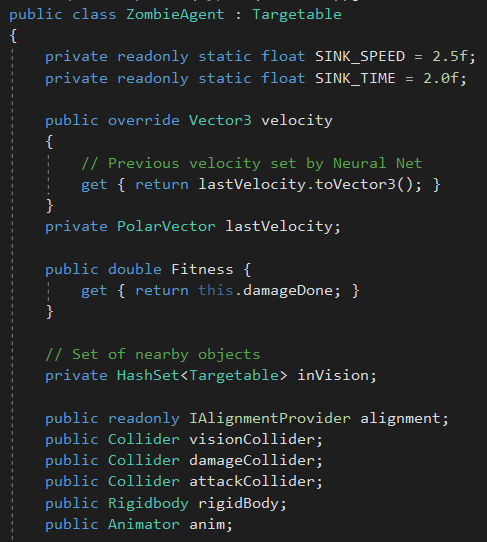
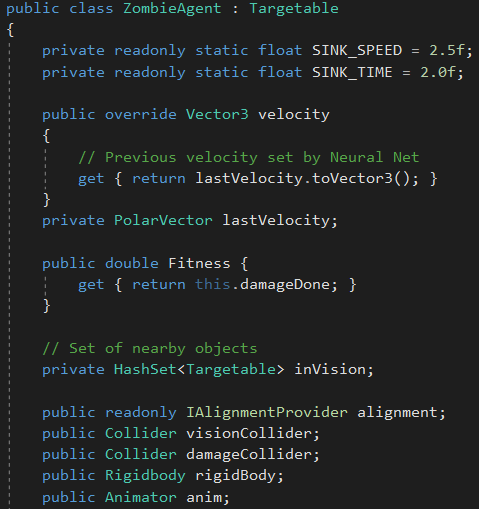
work on ZombieAgent tutorial section

diff --git a/paper.tex b/paper.tex
@@ -184,12 +184,22 @@ The Spawn method, as seen in Figure 12, is called every SPAWN\_DELAY interval PO
 
 \imfig{GenomeManagerSpawn}{Spawning machinery of the GenomeManager class}
 
-
-
 \subsubsection{Redzen}
+
 Redzen is a general-purpose utilities library for C\# that contains the fast random function that we use. However, it should be noted that the library as it may be found online at the time of writing does not compile with the older C\# compiler that Unity uses. Thus, we had to manually delete most of the library files and remove underscore digit separators from some numeric constants, as they are a C\# 7 feature. You can find our compatible library at \path{They-Are-Very-Smart/TD/TowerDefense/Assets/Scripts/Util/Redzen}
 
-\subsubsection{}
+\subsubsection{ZombieAgent}
+
+ZombieAgent is a GameObject which determines Zombunny behavior and stats from a genome and keeps track of fitness for each individual Zombunny. To do so, ZombieAgent pulls all the stat-determining values from the genome and applies them upon instantiation, i.e. setting health, damage, and speed as determined by the genome, as well as handling tick-to-tick operations during a Zombunny's lifetime. These tick-to-tick operations include choosing the next movement vector based on the location of nearby GameObjects and agent's current status. 
+
+\imfig{ZombieAgent1}{ZombieAgent class parameters}
+
+In Figure 13, observe that the ZombieAgent class inherits from the Targetable class. Targetable is the parent class for every GameObject in the Action Game Framework, which can be automatically fired upon by ranged weapons, i.e. targeted. This also allows any existing defenses from the default game or any other targeting GameObject from the Action Game Framework to work without extra compatibility code. SINK\_SPEED and SINK\_TIME are constants used for death animation. velocity provides the Zombunny's current velocity for any consumers of the Targetable parent class. LastVelocity stores the previous movement vector as a PolarVector, in a format more congenial to the pathfinding algorithm. Fitness is an interface used to grab the effectiveness of this ZombieAgent at the end of its lifespan by the GenomeManager class. inVision keeps track of all nearby objects that the Zombunny can see for use in its pathfinding algorithm. the alignment is used for purposes of checking whether a Zombunny can damage other GameObjects, while visionCollider and damageCollider are the areas within which a Zombunny can see and deal damage from, respectively. The Rigidbody rigidBody handles physical collisions for movement purposes, while anim keeps track of the Zombunny's animation state, namely walking, idling, or death.
+
+\imfig{ZombieAgentInit}{The Genome, Awake, and Start methods of the ZombieAgent class}
+
+In Figure 14, Genome instantiates a 
+
 
 
 %Overview

diff --git a/TD/TowerDefense/Assets/Scripts/TowerDefense/Agents/ZombieAgent.cs b/TD/TowerDefense/Assets/Scripts/TowerDefense/Agents/ZombieAgent.cs
@@ -35,7 +35,6 @@ namespace TowerDefense.Agents
         public readonly IAlignmentProvider alignment;
         public Collider visionCollider;
         public Collider damageCollider;
-        public Collider attackCollider;
         public Rigidbody rigidBody;
         public Animator anim;
 
